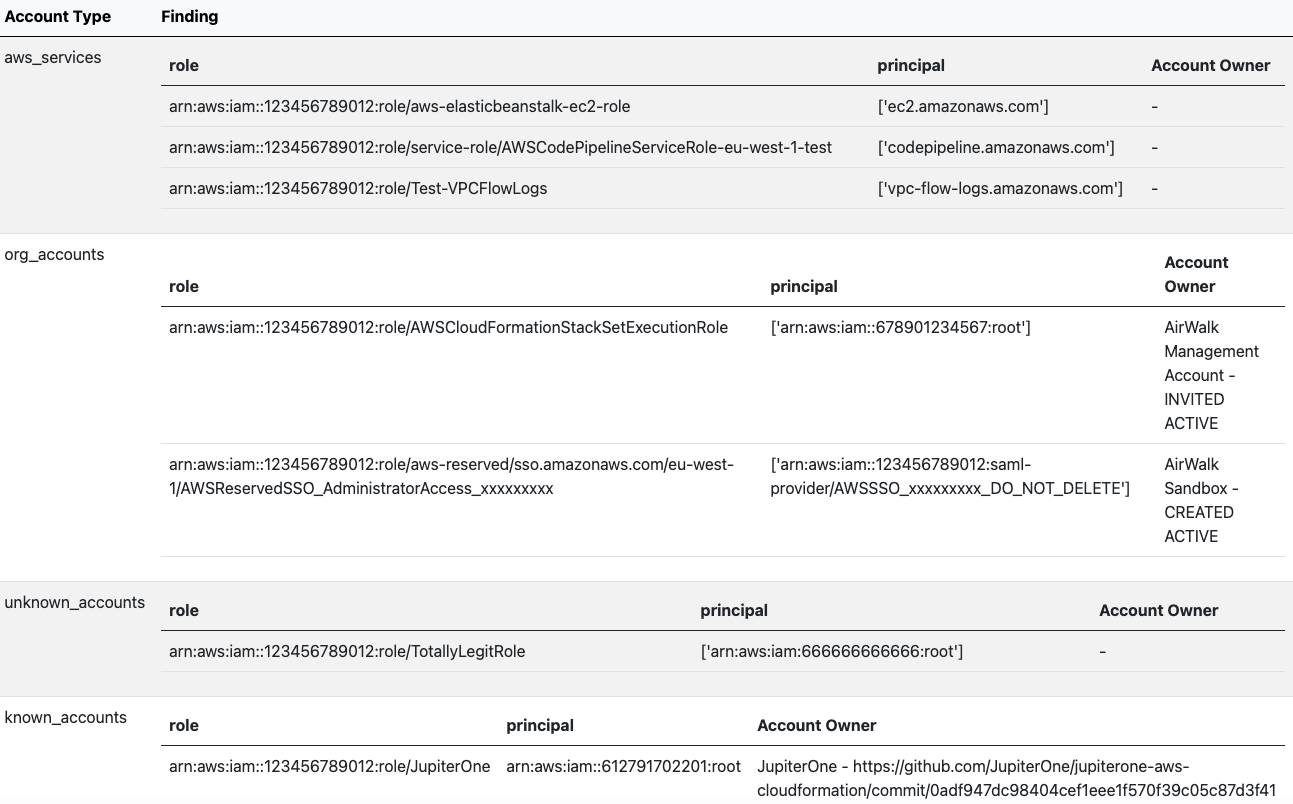
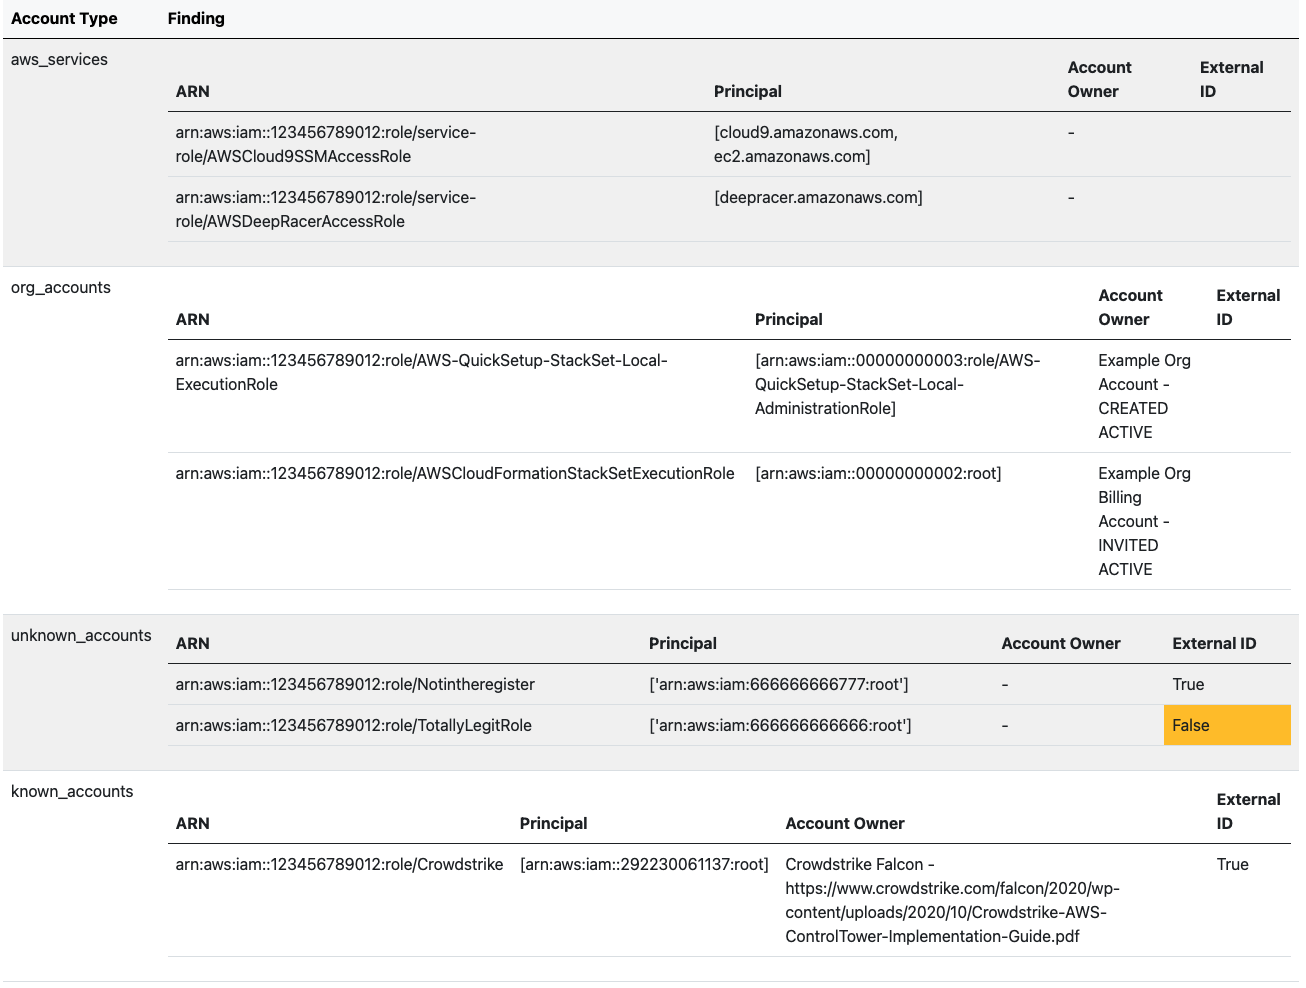
[skip ci] update example and screenshots (#2)

diff --git a/example/example.html b/example/example.html
@@ -27,37 +27,32 @@
                         <table class="table">
                             <thead>
                                 <tr>
-                                    <th scope="col"> role </th>
-                                    <th scope="col"> principal </th>
+                                    <th scope="col"> ARN </th>
+                                    <th scope="col"> Principal </th>
                                     <th scope="col"> Account Owner </th>
+                                    <th scope="col"> External ID</th>
                                 </tr>
                             </thead>
                             <tbody>
-                                                           
-                                                             
+                                
                                 <tr>
-                                    <td>arn:aws:iam::123456789012:role/aws-elasticbeanstalk-ec2-role</td>
-                                    <td>['ec2.amazonaws.com']</td>
+                                    <td>arn:aws:iam::123456789012:role/service-role/AWSCloud9SSMAccessRole</td>
+                                    <td>[cloud9.amazonaws.com, ec2.amazonaws.com]</td>
                                     
                                     <td> - 
                                         </td>
-                                    
+        
+                                   <td></td>
                                     
                                 <tr>
-                                    <td>arn:aws:iam::123456789012:role/service-role/AWSCodePipelineServiceRole-eu-west-1-test</td>
-                                    <td>['codepipeline.amazonaws.com']</td>
+                                    <td>arn:aws:iam::123456789012:role/service-role/AWSDeepRacerAccessRole</td>
+                                    <td>[deepracer.amazonaws.com]</td>
                                     
                                     <td> - 
                                         </td>
-
-                                    
-                                <tr>
-                                    <td>arn:aws:iam::123456789012:role/Test-VPCFlowLogs</td>
-                                    <td>['vpc-flow-logs.amazonaws.com']</td>
-                                    
-                                    <td> - 
-                                        </td>
-                                    
+                                 
+                                   <td></td>
+            
                                 </tr>
                             </tbody>
                         </table>
@@ -71,28 +66,32 @@
                         <table class="table">
                             <thead>
                                 <tr>
-                                    <th scope="col"> role </th>
-                                    <th scope="col"> principal </th>
+                                    <th scope="col"> ARN </th>
+                                    <th scope="col"> Principal </th>
                                     <th scope="col"> Account Owner </th>
+                                    <th scope="col"> External ID</th>
                                 </tr>
                             </thead>
                             <tbody>
+                                
+                                <tr>
+                                    <td>arn:aws:iam::123456789012:role/AWS-QuickSetup-StackSet-Local-ExecutionRole</td>
+                                    <td>[arn:aws:iam::00000000003:role/AWS-QuickSetup-StackSet-Local-AdministrationRole]</td>
                                     
+                                    <td>Example Org Account - CREATED
+                                        ACTIVE</td>                         
+                                    
+                                   <td></td>      
                                 <tr>
                                     <td>arn:aws:iam::123456789012:role/AWSCloudFormationStackSetExecutionRole</td>
-                                    <td>['arn:aws:iam::678901234567:root']</td>
+                                    <td>[arn:aws:iam::00000000002:root]</td>
                                     
-                                    <td>AirWalk Management Account - INVITED
+                                    <td>Example Org Billing Account - INVITED
                                         ACTIVE</td>
                                     
                                     
-                                <tr>
-                                    <td>arn:aws:iam::123456789012:role/aws-reserved/sso.amazonaws.com/eu-west-1/AWSReservedSSO_AdministratorAccess_xxxxxxxxx</td>
-                                    <td>['arn:aws:iam::123456789012:saml-provider/AWSSSO_xxxxxxxxx_DO_NOT_DELETE']</td>
-                                    
-                                    <td>AirWalk Sandbox  - CREATED
-                                        ACTIVE</td>
-                                    
+                                   <td></td>
+
                                 </tr>
                             </tbody>
                         </table>
@@ -106,19 +105,33 @@
                         <table class="table">
                             <thead>
                                 <tr>
-                                    <th scope="col"> role </th>
-                                    <th scope="col"> principal </th>
+                                    <th scope="col"> ARN </th>
+                                    <th scope="col"> Principal </th>
                                     <th scope="col"> Account Owner </th>
+                                    <th scope="col"> External ID</th>
                                 </tr>
                             </thead>
                             <tbody>
-                                
-                                <tr>                 
+                                                                    
+                                                               
+                                <tr>
+                                    <td>arn:aws:iam::123456789012:role/Notintheregister</td>
+                                    <td>['arn:aws:iam:666666666777:root']</td>
+                                    
+                                    <td> - 
+                                        </td>
+                                    
+                                    
+                                   <td>True</td>
+
+                                   <tr>                 
                                     <td>arn:aws:iam::123456789012:role/TotallyLegitRole</td>
                                     <td>['arn:aws:iam:666666666666:root']</td>
                                     
                                     <td> - 
-                                        </td>
+                                    </td>
+                                
+                                    <td class="bg-warning"> False  </td>
                                     
                                     
                                 </tr>
@@ -134,19 +147,24 @@
                         <table class="table">
                             <thead>
                                 <tr>
-                                    <th scope="col"> role </th>
-                                    <th scope="col"> principal </th>
+                                    <th scope="col"> ARN </th>
+                                    <th scope="col"> Principal </th>
                                     <th scope="col"> Account Owner </th>
+                                    <th scope="col"> External ID</th>
                                 </tr>
                             </thead>
                             <tbody>
                                 
                                 <tr>
-                                    <td>arn:aws:iam::123456789012:role/JupiterOne</td>
-                                    <td>arn:aws:iam::612791702201:root</td>
+                                    <td>arn:aws:iam::123456789012:role/Crowdstrike</td>
+                                    <td>[arn:aws:iam::292230061137:root]</td>
                                     
-                                    <td>JupiterOne - https://github.com/JupiterOne/jupiterone-aws-cloudformation/commit/0adf947dc98404cef1eee1f570f39c05c87d3f41</td>
-                                     
+                                    <td>Crowdstrike Falcon - https://www.crowdstrike.com/falcon/2020/wp-content/uploads/2020/10/Crowdstrike-AWS-ControlTower-Implementation-Guide.pdf</td>
+                                    
+                                    
+                                   <td>True</td>
+                                   
+                                    
                                 </tr>
                             </tbody>
                         </table>

diff --git a/README.md b/README.md
@@ -2,7 +2,7 @@
 
 > Xenos, is Greek for stranger.
 
-AWSXenos will list all the trust relationships in all the IAM roles, and S3 buckets, in an AWS account and give you a breakdown of all the accounts that have trust relationships to your account.
+AWSXenos will list all the trust relationships in all the IAM roles, and S3 buckets, in an AWS account and give you a breakdown of all the accounts that have trust relationships to your account. It will also highlight whether the trusts have an external ID or not.
 
 This tool reports against the [Trusted Relationship Technique](https://attack.mitre.org/techniques/T1199/) of the ATT&CK Framework. 
 
